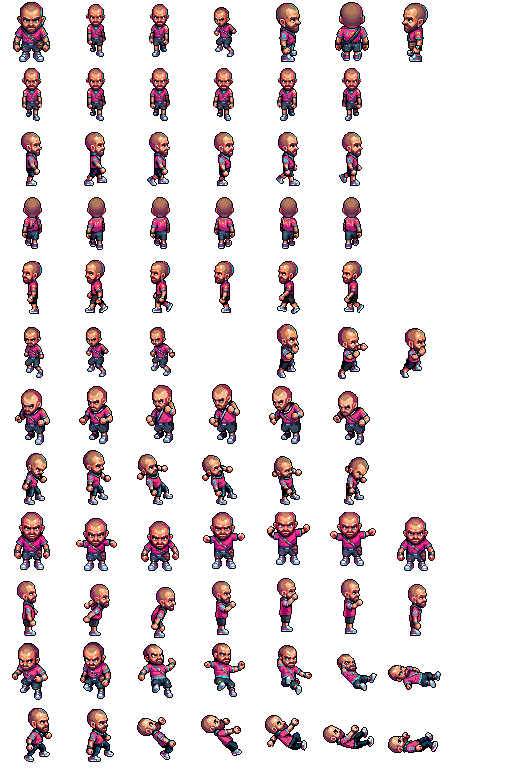
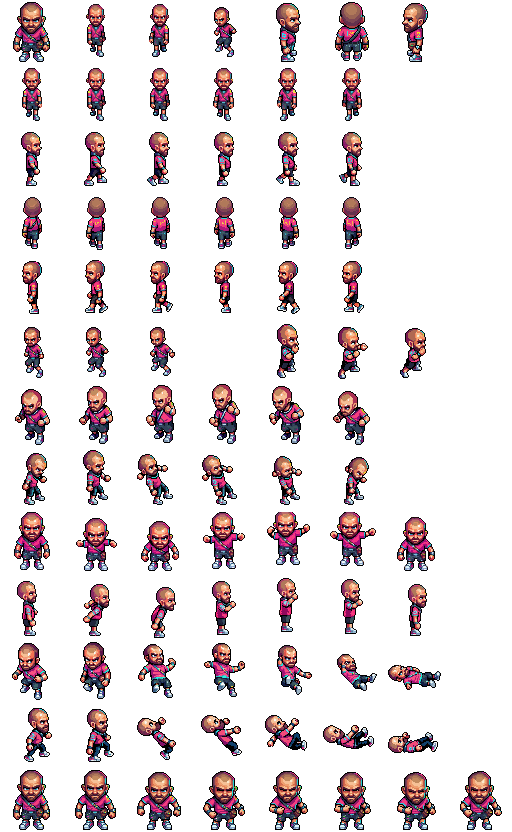
PixelLab dance/sing/wonk animations: club dancers, SanMik & SanChz, Krebon's gig, the wonk-off and the wonk mini-game
Claude-Session: https://claude.ai/code/session_01VMaYe2CeeKzcmBuCUqa9Rb

diff --git a/src/game/scenes/ClubScene.ts b/src/game/scenes/ClubScene.ts
@@ -679,6 +679,8 @@ export class ClubScene extends Phaser.Scene {
         ui.add(spr);
         const wrist = addWrist(this, spr.x - 8, 278, { ...wristLook(id, CHARACTERS as any), scale: 1.6, speed: 90 + Math.random() * 60 });
         ui.add(wrist.obj);
+        // the real art pumps its own arm; the stand-in wrist is only for sprites without it
+        if (spr.getData("pump")) wrist.obj.setVisible(false);
         spr.setData("wrist", wrist);
         ui.add(this.add.text(spr.x, 150, id === s.player ? "YOU" : CHARACTERS[id]?.name ?? id, { fontFamily: FONT, fontSize: id === s.player ? "14px" : "11px", color: id === s.player ? "#ffd23f" : "#ffd1e8", fontStyle: "bold" }).setOrigin(0.5));
         // gauge under each

diff --git a/src/game/combat/Wonk.ts b/src/game/combat/Wonk.ts
@@ -85,6 +85,7 @@ export function startWonk(p: Player, now: number) {
   // the real thing, when the art has it: an arm pumping away (the business end stays behind the bar)
   const pump = perfCycle(hero, "wonk");
   let pumpPhase = 0;
+  if (pump) wrist.obj.setVisible(false);
   // keep it decent: a big censor bar over the business end
   const bar = sc.add.rectangle(320, 352, 170, 54, 0x000000);
   const barT = sc.add.text(320, 352, "CENSORED", { fontFamily: "Impact, sans-serif", fontSize: "24px", color: "#ffffff" }).setOrigin(0.5);
